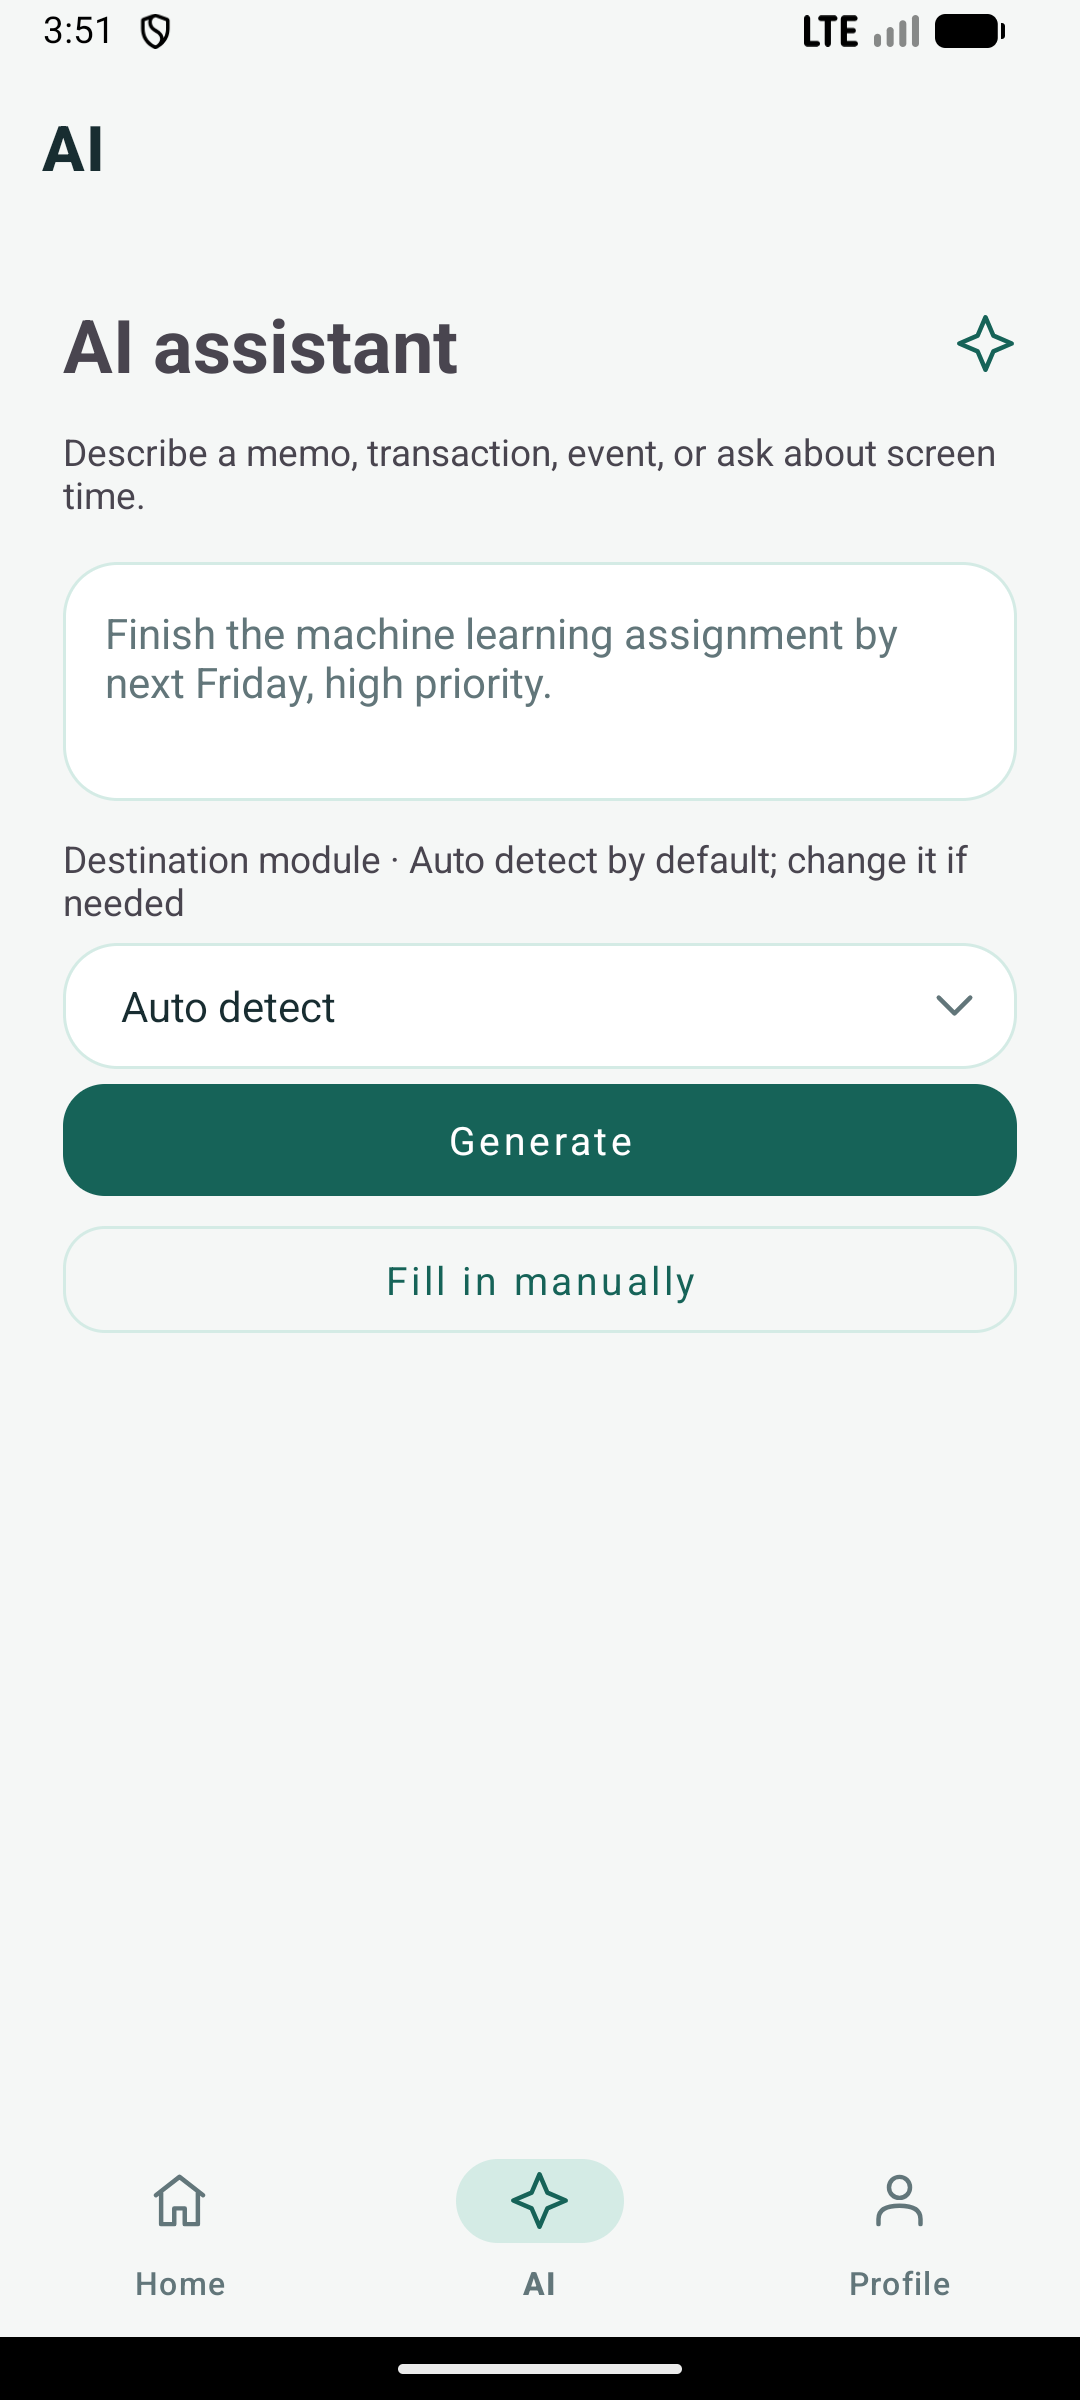
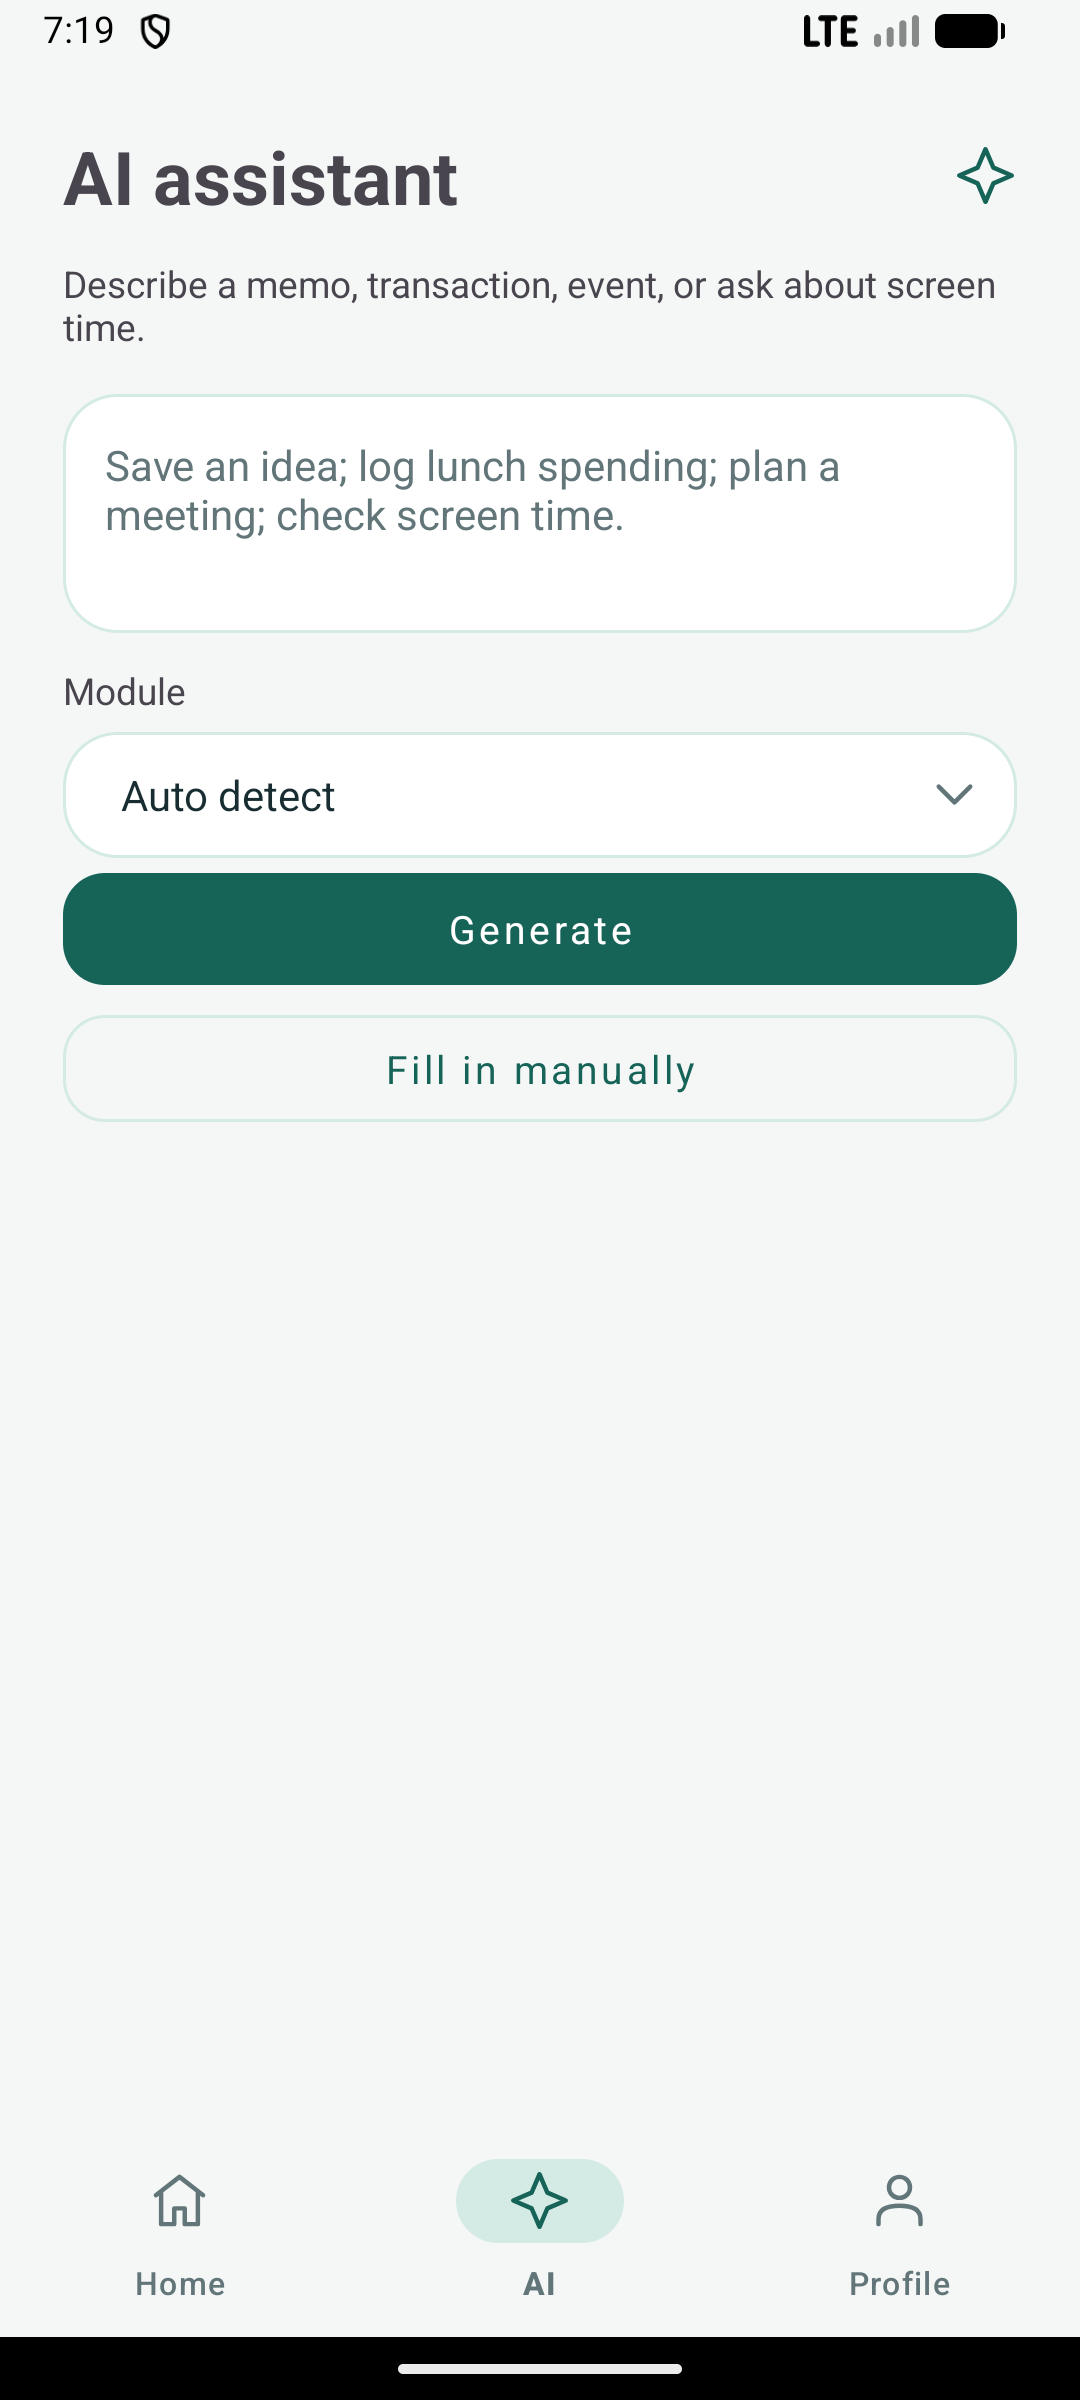
Refresh all module previews and retain original LifeHub branding

diff --git a/app/src/androidTest/java/com/lifeHub/ui/ReadmePreviewTest.kt b/app/src/androidTest/java/com/lifeHub/ui/ReadmePreviewTest.kt
@@ -1,0 +1,71 @@
+package com.lifeHub.ui
+
+import android.content.Context
+import androidx.test.core.app.ActivityScenario
+import androidx.test.core.app.ApplicationProvider
+import androidx.test.espresso.Espresso.onView
+import androidx.test.espresso.action.ViewActions.*
+import androidx.test.espresso.matcher.ViewMatchers.*
+import androidx.test.platform.app.InstrumentationRegistry
+import com.lifeHub.R
+import com.lifeHub.main.ui.MainPage
+import com.lifeHub.login.LoginManager
+import com.lifeHub.todo.data.Memo
+import com.lifeHub.todo.data.MemoDatabase
+import com.lifeHub.finance.data.db.AppDatabase
+import com.lifeHub.finance.data.model.ExpenseEntity
+import com.lifeHub.schedule.data.DBHelper
+import kotlinx.coroutines.runBlocking
+import org.junit.Assume.assumeTrue
+import org.junit.Test
+import java.text.SimpleDateFormat
+import java.util.*
+
+/** Opt-in documentation capture, restricted to the isolated package. No production data is touched. */
+class ReadmePreviewTest {
+    @Test fun captureCurrentScreens() {
+        val app = ApplicationProvider.getApplicationContext<Context>()
+        assumeTrue(app.packageName == "com.lifeHub.qa")
+        assumeTrue(InstrumentationRegistry.getArguments().getString("captureReadme") == "true")
+        LoginManager.setLoggedIn(app, true, "Alex")
+        val today = SimpleDateFormat("yyyy-MM-dd", Locale.US).format(Date())
+        runBlocking {
+            val dao = MemoDatabase.getDatabase(app).memoDao()
+            dao.deleteAll()
+            dao.insert(Memo(title="Prepare project presentation", content="Outline the demo and highlight the latest improvements.", priority=2, dueDate=today))
+            dao.insert(Memo(title="Weekend reading list", content="Read a chapter on Android architecture and take notes.", priority=1))
+            dao.insert(Memo(title="Plan next week's meals", content="Make a grocery list for fresh, simple meals."))
+        }
+        val finance = AppDatabase.getInstance(app).expenseDao()
+        finance.allExpensesSnapshot.forEach { finance.delete(it) }
+        val calendar = Calendar.getInstance()
+        listOf(38.5 to "Food & Drinks", 24.0 to "Transport", 89.0 to "Shopping", 45.0 to "Entertainment", -1200.0 to "Salary").forEachIndexed { index, pair ->
+            calendar.set(Calendar.DAY_OF_MONTH, (index % Calendar.getInstance().get(Calendar.DAY_OF_MONTH)) + 1)
+            finance.insert(ExpenseEntity(pair.first, pair.second, listOf("Lunch with friends", "Metro pass", "New notebook", "Movie night", "Part-time work")[index], calendar.timeInMillis, "Cash"))
+        }
+        DBHelper(app).use { db ->
+            db.insertEventOnce(today, "14:00", "Project catch-up", "Review progress and plan the next milestone.", "readme-meeting")
+        }
+        ActivityScenario.launch(MainPage::class.java).use {
+            capture("home")
+            onView(withId(R.id.navigation_ai)).perform(click())
+            capture("ai")
+        }
+        for ((target, name) in listOf(R.id.cardTodo to "memo", R.id.cardAccount to "finance", R.id.cardSchedule to "schedule", R.id.cardHealth to "health")) {
+            ActivityScenario.launch(MainPage::class.java).use {
+                onView(withId(target)).perform(scrollTo(), click())
+                if (name == "health") onView(withId(R.id.detail_button)).perform(scrollTo(), click())
+                capture(name)
+            }
+        }
+    }
+    private fun capture(name: String) {
+        val instrumentation = InstrumentationRegistry.getInstrumentation()
+        instrumentation.waitForIdleSync()
+        android.os.SystemClock.sleep(1500)
+        val app = instrumentation.targetContext
+        java.io.File(app.filesDir, "readme-$name.png").outputStream().use {
+            check(instrumentation.uiAutomation.takeScreenshot().compress(android.graphics.Bitmap.CompressFormat.PNG, 100, it))
+        }
+    }
+}

diff --git a/README.md b/README.md
@@ -1,4 +1,6 @@
-<p align="center"><img src="docs/assets/lifehub-plus-banner.svg" alt="Lifehub Plus — Built on LifeHub, reimagined with local AI" width="100%" /></p>
+<p align="center"><img src="docs/assets/lifehub-icon.png" alt="Original LifeHub sprout app icon" width="112" /></p>
+<h1 align="center">Lifehub Plus</h1>
+<p align="center">Built on LifeHub. Reimagined with local AI.</p>
 
 <p align="center">
   <img src="https://img.shields.io/badge/Android-Java%20%2B%20Kotlin-19675D?style=flat-square" alt="Android Java and Kotlin" />
@@ -20,16 +22,29 @@ My contributions to the original project included product planning, application 
 
 ## App Preview
 
+A connected workspace for notes, money, plans and digital wellbeing — with AI to turn requests into reviewable actions.
+
 <table>
-  <tr><th>Home</th><th>AI Assistant</th><th>Finance Dashboard</th></tr>
+  <tr><th>Memo</th><th>Finance</th></tr>
   <tr>
-    <td><img src="docs/assets/home.png" width="260" alt="LifeHub home screen with four module cards" /></td>
-    <td><img src="docs/assets/ai.png" width="260" alt="AI input and destination module selection" /></td>
-    <td><img src="docs/assets/finance.png" width="260" alt="Finance category breakdown and cash flow chart with sample data" /></td>
+    <td><img src="docs/assets/memo.png" width="320" alt="Current Memo screen with priorities and sample tasks" /></td>
+    <td><img src="docs/assets/finance.png" width="320" alt="Current Finance dashboard with monthly totals and category charts" /></td>
+  </tr>
+  <tr><th>Schedule</th><th>Health</th></tr>
+  <tr>
+    <td><img src="docs/assets/schedule.png" width="320" alt="Current Schedule calendar with a sample event and dated memo" /></td>
+    <td><img src="docs/assets/health.png" width="320" alt="Current Health screen showing Android emulator usage statistics" /></td>
+  </tr>
+  <tr><th>Home</th><th>AI Assistant</th></tr>
+  <tr>
+    <td><img src="docs/assets/home.png" width="320" alt="Current LifeHub home with all four module cards" /></td>
+    <td><img src="docs/assets/ai.png" width="320" alt="Current AI assistant with automatic module selection" /></td>
   </tr>
 </table>
 
-Screenshots show development builds; some contain earlier interface wording. Financial figures are sample data. The repository is named **Lifehub Plus**, while the application retains the LifeHub branding and package name so existing installations can be upgraded without losing data.
+Captured from the current Android build on October 2, 2026. Memo, Finance and Schedule use fictional demonstration records in an isolated account. Health displays the emulator's actual Android usage data, not sample statistics. See the [capture notes](docs/assets/README.md) for reproduction details.
+
+**Same LifeHub identity, expanded capabilities.** Lifehub Plus retains the original LifeHub sprout icon, application branding and package name.
 
 ## From LifeHub to Plus
 

diff --git a/docs/assets/README.md b/docs/assets/README.md
@@ -1,0 +1,20 @@
+# App preview captures
+
+Captured on October 2, 2026 from the current application source, using the Medium Phone API 36.1 emulator (1080 × 2400, English locale). These are direct Android screenshots, not mockups. The PNG icon is copied unchanged from `app/src/main/res/drawable/life_hub_icon.png`.
+
+The opt-in `ReadmePreviewTest` runs only with the isolated `com.lifeHub.qa` application ID. Its fictional Alex account contains three memos, five financial records and one scheduled event. The normal `com.lifeHub` installation and its account data are untouched. Health shows actual emulator usage, including periods with no available history; no usage totals are seeded or fabricated.
+
+To refresh the six previews with an emulator connected (PowerShell):
+
+```powershell
+./gradlew.bat :app:assembleDebug :app:assembleDebugAndroidTest -PisolatedTests=true
+adb install -r app/build/outputs/apk/debug/app-debug.apk
+adb install -r app/build/outputs/apk/androidTest/debug/app-debug-androidTest.apk
+adb shell appops set com.lifeHub.qa GET_USAGE_STATS allow
+adb shell cmd locale set-app-locales com.lifeHub.qa --user 0 --locales en
+adb shell am instrument -w -e class com.lifeHub.ui.ReadmePreviewTest -e captureReadme true com.lifeHub.qa.test/com.lifeHub.LifeHubTestRunner
+```
+
+Screenshots are written to the isolated application's `files/readme-{home,ai,memo,finance,schedule,health}.png`. Export each with `adb exec-out run-as com.lifeHub.qa cat files/readme-NAME.png` through a binary-safe stream (for example, Python's `subprocess.run(..., capture_output=True).stdout`); older PowerShell redirection can corrupt PNG bytes. Inspect every image before replacing the public assets. Capture dates, content and usage totals will naturally change on a later run.
+
+After export, uninstall only `com.lifeHub.qa.test` and `com.lifeHub.qa`. The screenshot fixture is opt-in and is not included in the normal app.
